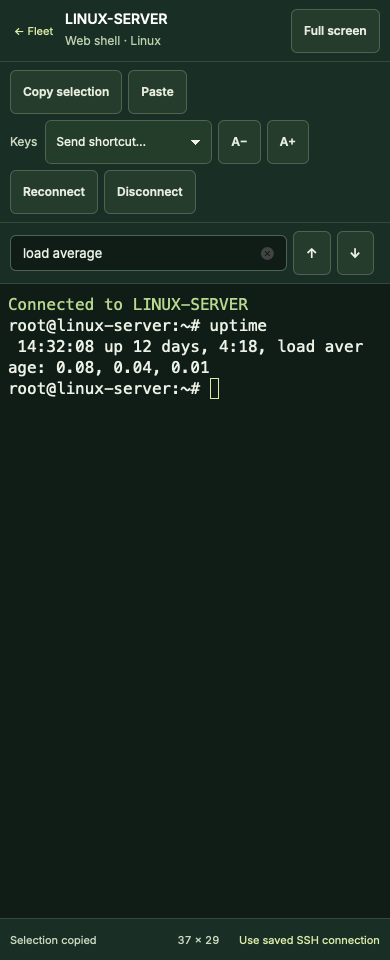
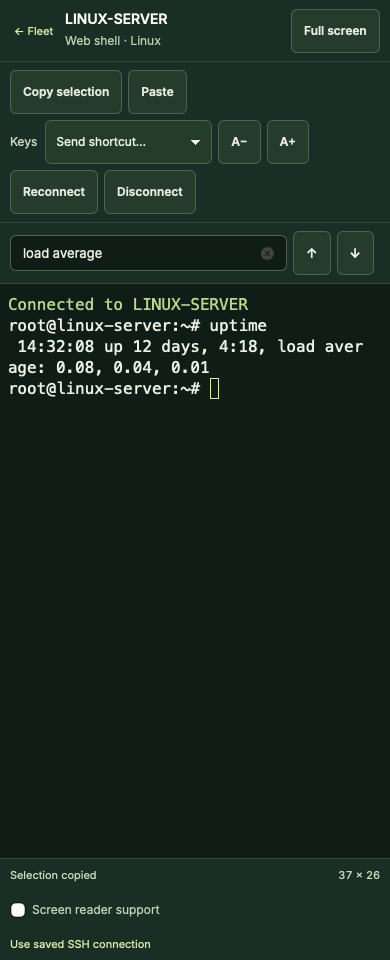
Keep terminal accessibility controls compact on mobile

diff --git a/web/src/web-shell.css b/web/src/web-shell.css
@@ -73,6 +73,19 @@
   flex: 1;
   min-width: 120px;
 }
+.shell-footer .check {
+  display: inline-flex;
+  align-items: center;
+  gap: 6px;
+  margin: 0;
+}
+.shell-footer input[type="checkbox"] {
+  flex: none;
+  min-width: 0;
+  width: 16px;
+  min-height: 16px;
+  height: 16px;
+}
 .shell-footer a {
   color: var(--lime);
 }
